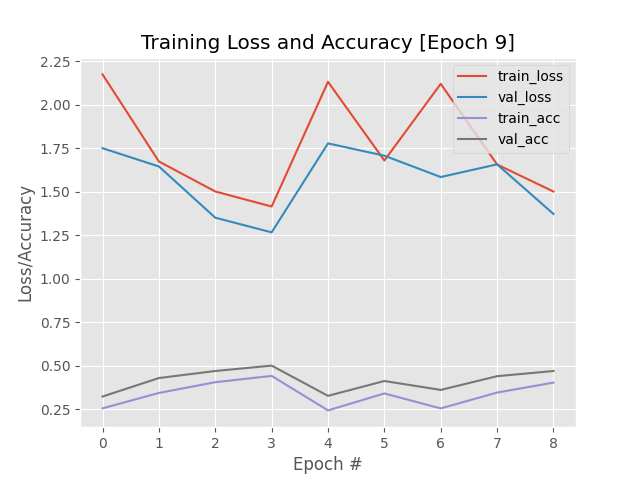
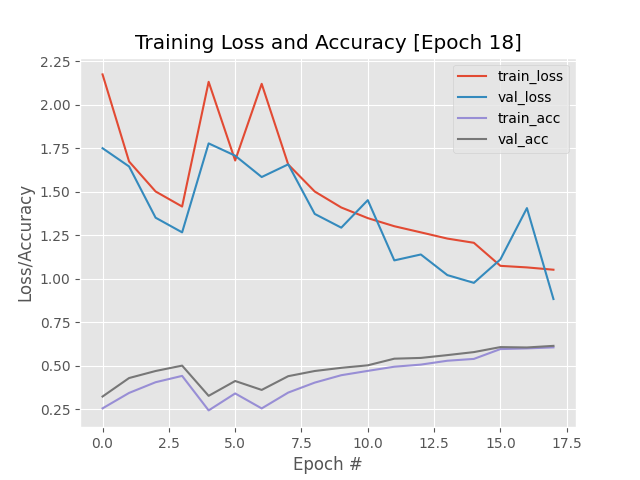
Adding plots

diff --git a/emotion_recognition/test_recognizer.py b/emotion_recognition/test_recognizer.py
@@ -1,7 +1,7 @@
 # import the necessary packages
 from config import emotion_config as config
 from processor.image_to_array_preprocessor import ImageToArrayPreprocessor
-from pprocessor.hdf5_dataset_generator import HDF5DatasetGenerator
+from processor.hdf5_dataset_generator import HDF5DatasetGenerator
 from keras.preprocessing.image import ImageDataGenerator
 from keras.models import load_model
 import argparse

diff --git a/emotion_recognition/realtime_emotion_detector.py b/emotion_recognition/realtime_emotion_detector.py
@@ -23,7 +23,7 @@ EMOTIONS = ["angry", "scared", "happy", "sad", "surprised", "neutral"]
 
 # if a video path was not supplied, grab the reference to the webcam
 if not args.get("video", False):
-    camera = cv2.VideoCapture(1)
+    camera = cv2.VideoCapture(0)
 # otherwise, load the video
 else:
     camera = cv2.VideoCapture(args["video"])

diff --git a/emotion_recognition/train_recognizer.py b/emotion_recognition/train_recognizer.py
@@ -73,7 +73,7 @@ model.fit_generator(
     steps_per_epoch=trainGen.numImages // config.BATCH_SIZE,
     validation_data=valGen.generator(),
     validation_steps=valGen.numImages // config.BATCH_SIZE,
-    epochs=15,
+    epochs=75,
     max_queue_size=config.BATCH_SIZE * 2,
     callbacks=callbacks, verbose=1)
 
